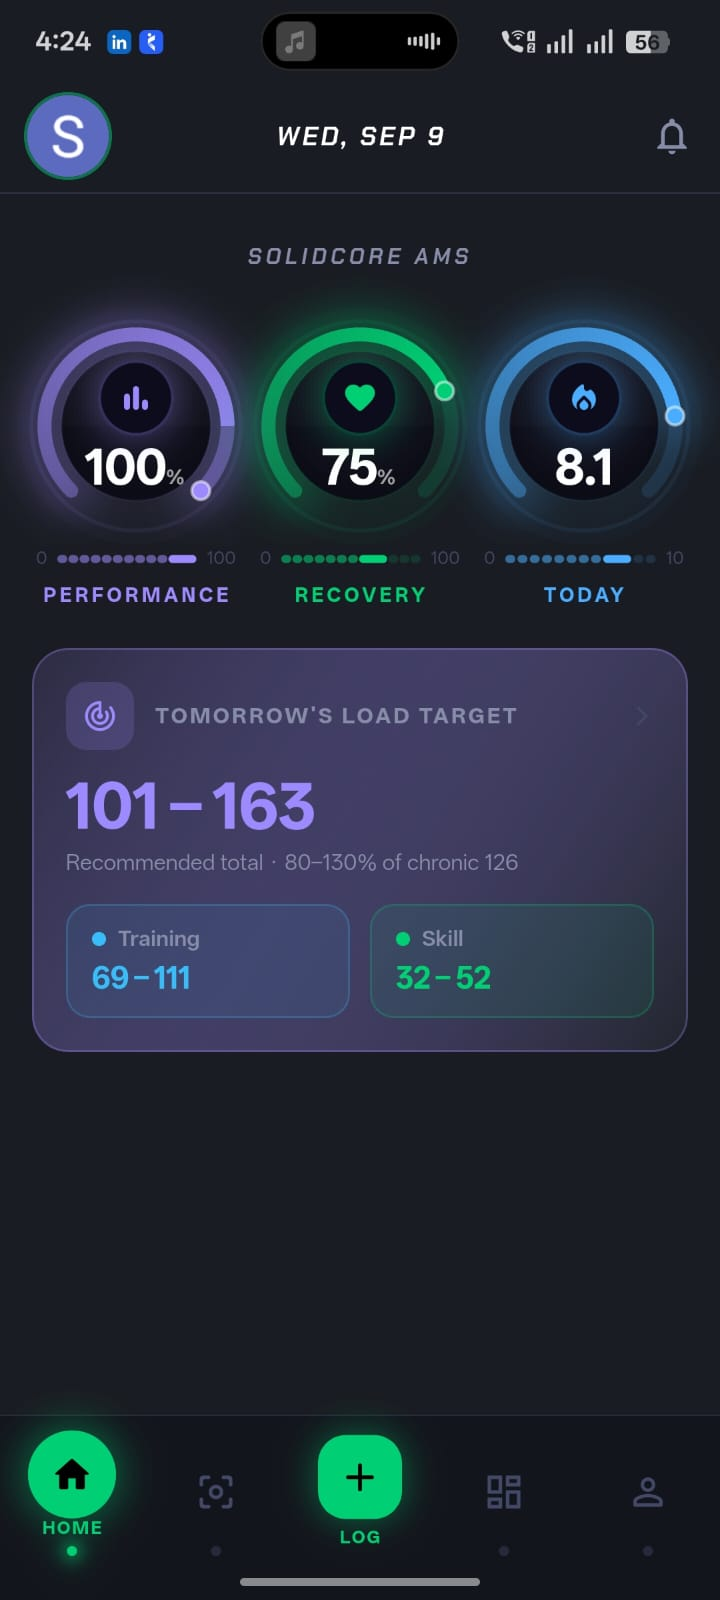
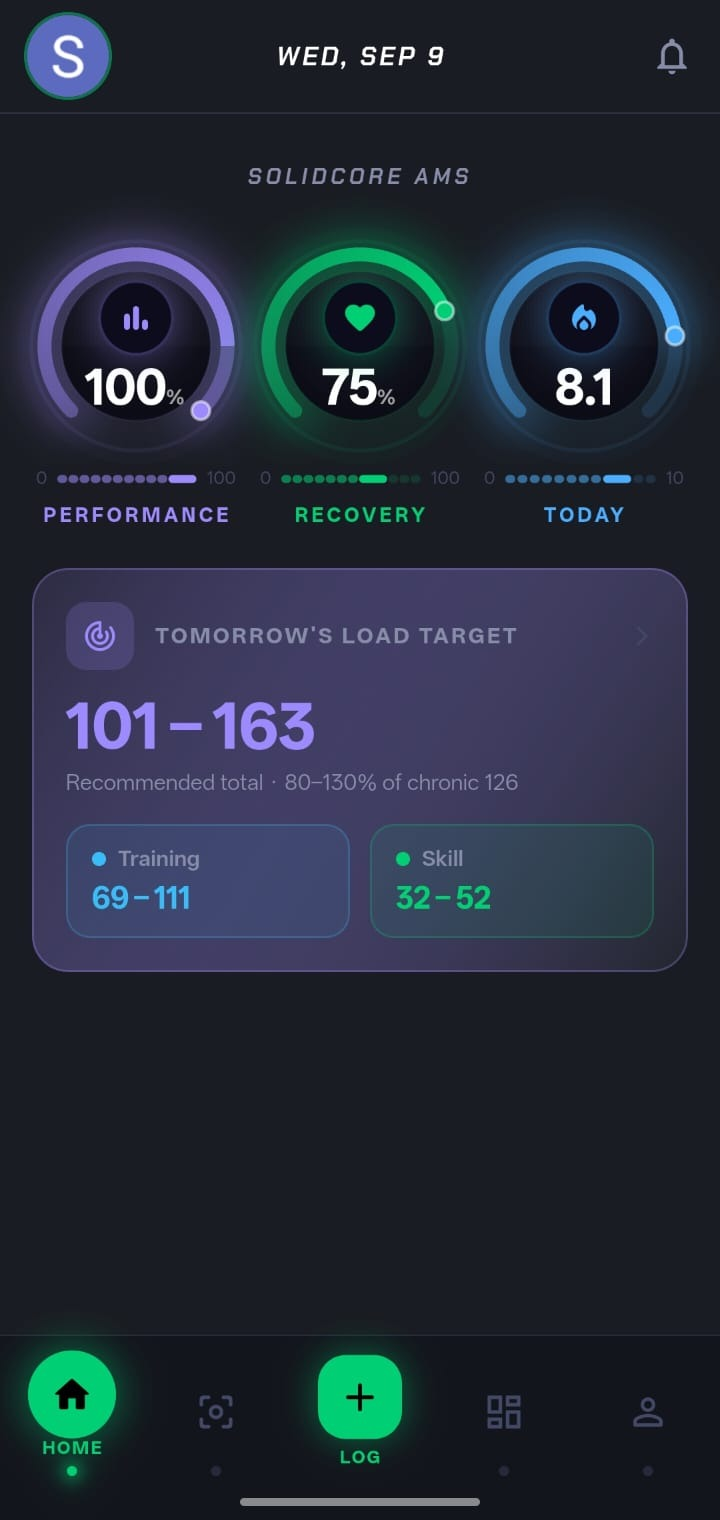
Crop status bar from screenshots, show full image uncropped
- Crops the phone status bar (time/signal/battery row) off the top
  of all six screenshots
- Switches the display frame from object-fit: cover (which cropped
  the image to fill its box) to contain at the screenshots' real
  9:19 aspect ratio, so the full image is always visible

diff --git a/frontend/src/App.css b/frontend/src/App.css
@@ -314,22 +314,21 @@
 }
 
 /* ---------- app screenshots ---------- */
+/* Cropped screenshots are all the same 9:19 phone ratio; showing the
+   full frame (object-fit: contain) rather than cropping it. */
 .art-shot {
   display: block;
   width: 100%;
+  aspect-ratio: 9 / 19;
   background: var(--carbon-2);
   border-radius: var(--r-sm);
-  object-fit: cover;
+  object-fit: contain;
   object-position: top center;
 }
 .art-shot--tall {
-  aspect-ratio: 3 / 4;
   border-radius: var(--r-lg);
   border: 1px solid var(--edge);
   box-shadow: 0 30px 60px -30px rgba(0, 0, 0, 0.6);
-}
-.art-shot--wide {
-  aspect-ratio: 4 / 3;
 }
 
 /* ---------- ticker ---------- */

diff --git a/frontend/src/components/art.jsx b/frontend/src/components/art.jsx
@@ -6,7 +6,7 @@
 function Screenshot({ src, alt, tall = false }) {
   return (
     <img
-      className={`art art-shot ${tall ? 'art-shot--tall' : 'art-shot--wide'}`}
+      className={`art art-shot ${tall ? 'art-shot--tall' : ''}`}
       src={src}
       alt={alt}
       loading="lazy"
